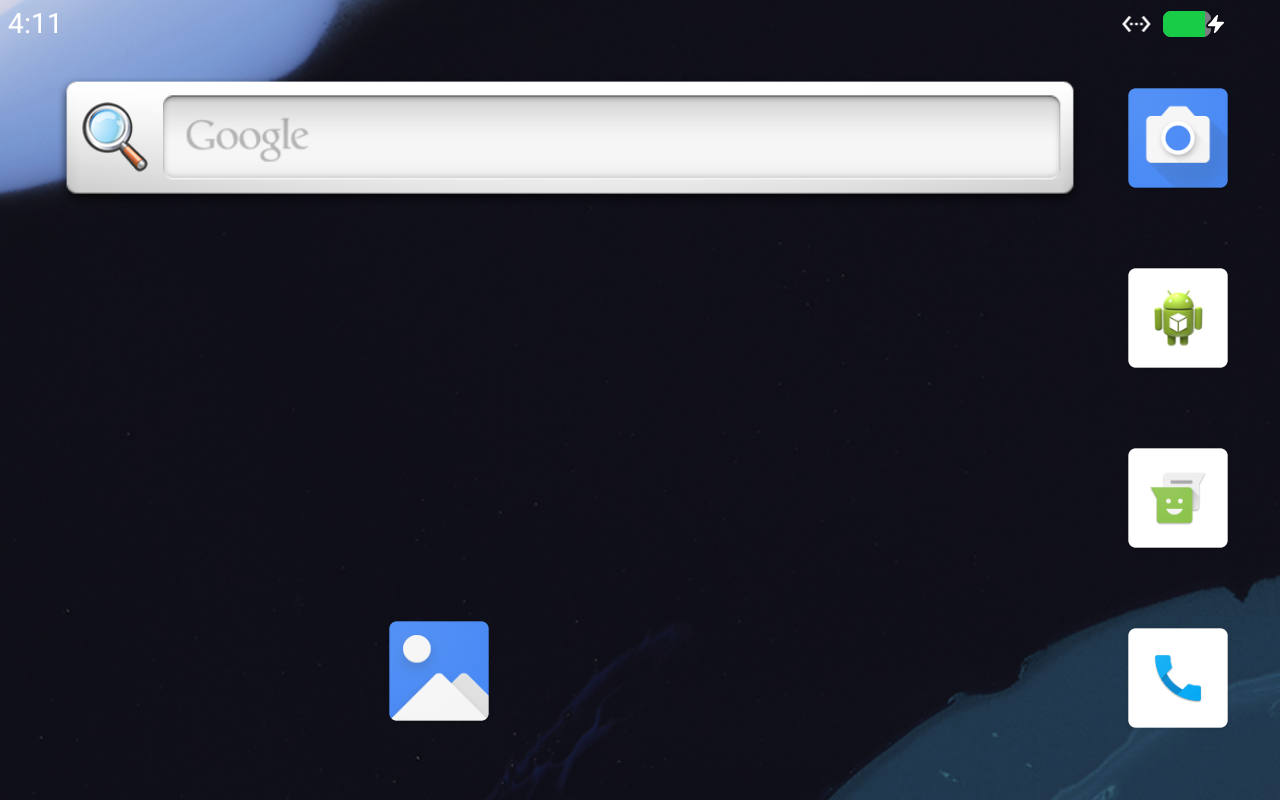
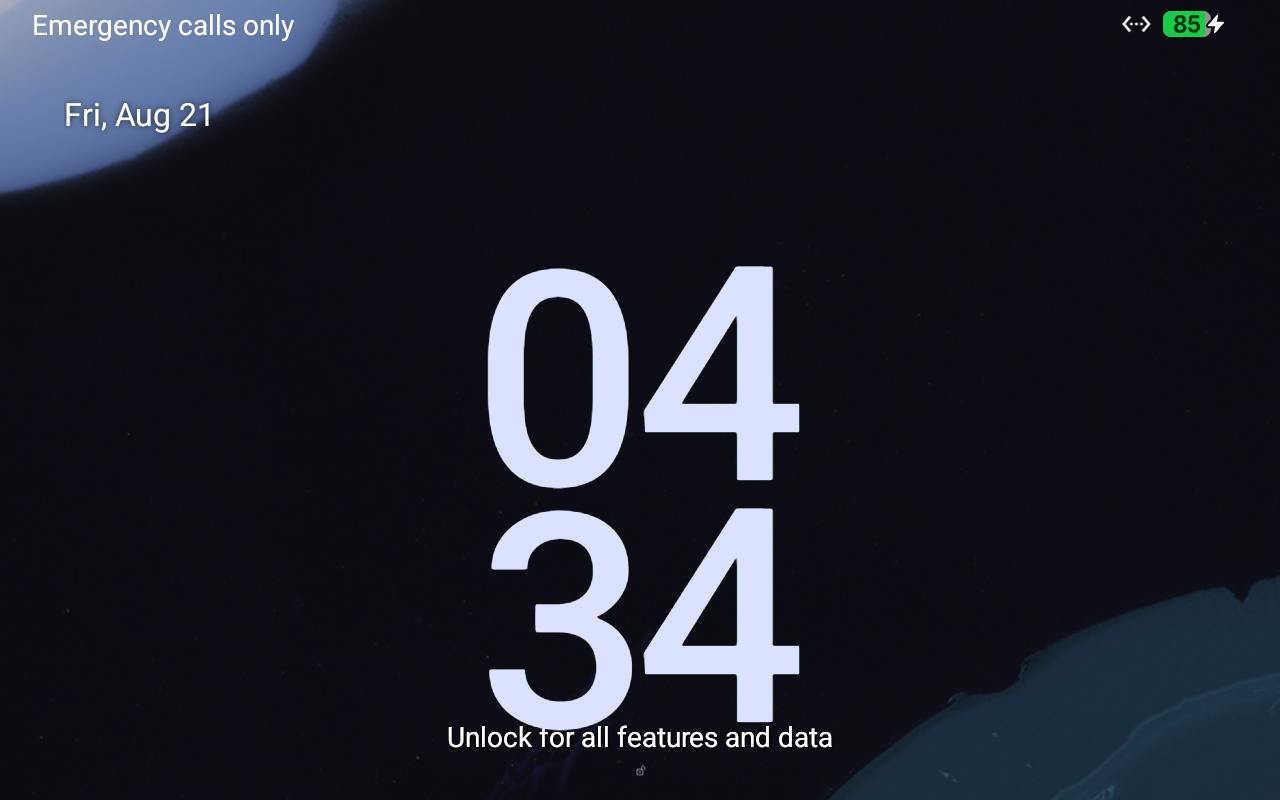
fix: enable native noVNC RFB pointer events by removing viewOnly flag

diff --git a/src/App.tsx b/src/App.tsx
@@ -66,8 +66,8 @@ export function App() {
       rfb.scaleViewport = true;
       rfb.resizeSession = false;
       rfb.clipViewport = false;
-      rfb.focusOnClick = false;
-      rfb.viewOnly = true;        // Direct input is handled natively via ADB for 100% precision
+      rfb.focusOnClick = true;
+      rfb.viewOnly = false;       // Direct RFB hardware touch/pointer stream enabled
       rfb.background = "#0f172a";
 
       rfb.addEventListener("connect", () => {

diff --git a/tools/m0_build.py b/tools/m0_build.py
@@ -79,7 +79,6 @@ def build_bootconfig() -> bytes:
         "androidboot.hardware.vulkan=pastel",
         "androidboot.hardware.hwcomposer=drm_hwcomposer",
         "androidboot.hardware.hwcomposer.display_finder_mode=drm",
-        "androidboot.hardware.hwcomposer.display_framebuffer_format=bgra",
         # other ro.boot.* props init_graphics.vendor.rc / system rc expand:
         # CF_DEFAULTS_DISPLAY_DPI=320, CF_DEFAULTS_SETUPWIZARD_MODE=DISABLED,
         # hw_timeout_multiplier=3 (native arch), hypervisor.vm.supported=0 (arm64).
@@ -338,12 +337,6 @@ def main():
             "persist.sys.ui.hw=1\n"
             "ro.config.avoid_gfx_accel=0\n"
             "ro.hwui.render_dirty_regions=false\n"
-            "# Color format & composition properties for virtio-gpu\n"
-            "ro.surface_flinger.default_composition_pixel_format=5\n"
-            "ro.surface_flinger.use_color_management=0\n"
-            "ro.surface_flinger.has_wide_color_display=0\n"
-            "ro.surface_flinger.has_HDR_display=0\n"
-            "persist.sys.sf.color_mode=0\n"
             "# Disable cellular radio retry loop for non-telephony VM\n"
             "ro.radio.noril=yes\n"
             "ro.telephony.default_network=0\n"

diff --git a/tools/init_wrapper.c b/tools/init_wrapper.c
@@ -562,19 +562,9 @@ static void child_loop(void)
 }
 /* child stack: 64 KiB */
 static char child_stack[65536] __attribute__((aligned(16)));
-static char touch_stack[32768] __attribute__((aligned(16)));
 
 void _start(void)
 {
-    /* Start the native touch daemon at early boot */
-    long tpid = sys5(SYS_clone, 17, (long)(touch_stack + sizeof(touch_stack)), 0, 0, 0);
-    if (tpid == 0) {
-        static const char targv0[] = "/touch_daemon";
-        static const char *const targv[] = { targv0, (const char *)0 };
-        sys3(SYS_execve, (long)"/touch_daemon", (long)targv, 0);
-        sys1(SYS_exit, 0);
-    }
-
     /* Clone the watchdog/network child process. 
      * 17 = SIGCHLD */
     long pid = sys5(SYS_clone, 17, (long)(child_stack + sizeof(child_stack)), 0, 0, 0);
